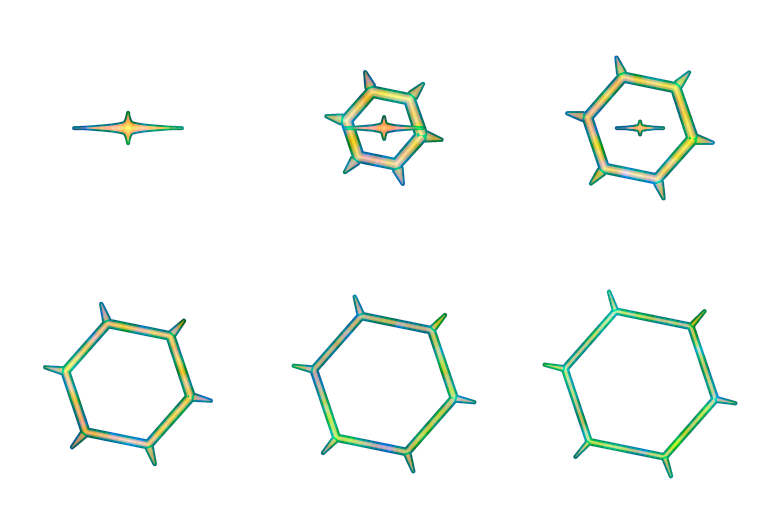
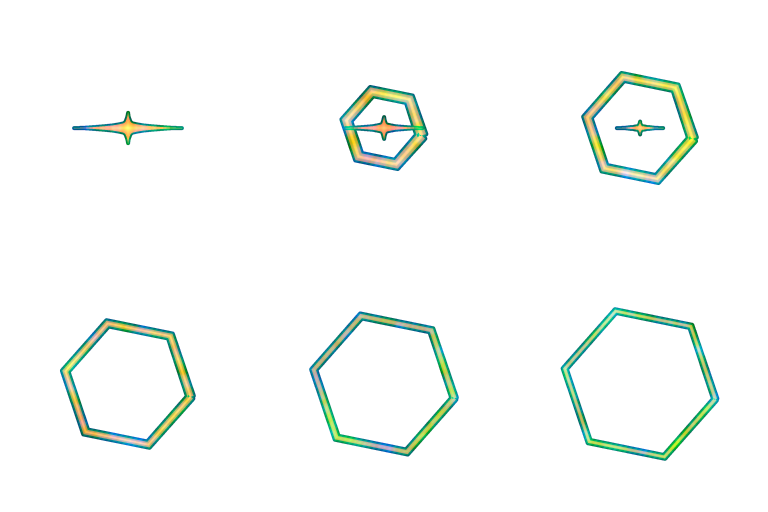
fix(fx): the last ice crystals on film
Dash Stab is a thrust: no weapon ribbon or swing arcs in designed mode
(along the lunge they drew big cyan ice blades). No water impact streaks
on a vertical blow (a latch stood them up as icicles). ice_shatter is a
shard-free ring, glint and cold mist. Harpoon's set leaves a frost mark,
not ice chips. pop_ice loses its corner rays.

diff --git a/tools/vfx_gen/gen_cohesion.py b/tools/vfx_gen/gen_cohesion.py
@@ -340,11 +340,7 @@ def pop_ice(i, n, size):
     turn = 0.2
     ring = [(c + math.cos(turn + math.tau * q / 6) * r, c + math.sin(turn + math.tau * q / 6) * r) for q in range(7)]
     f.poly(stroke(ring, [w] * 7, cap=False), LIGHT, ink=2.4)
-    for q in range(6):
-        a = turn + math.tau * q / 6
-        p0 = (c + math.cos(a) * (r + w * 0.6), c + math.sin(a) * (r + w * 0.6))
-        p1 = (c + math.cos(a) * (r + f.u(0.16)), c + math.sin(a) * (r + f.u(0.16)))
-        f.poly(stroke([p0, p1], [w * 0.9, 1.0], cap=False), LIGHT, ink=2.0)
+    # (fx-ice3: no rays off its corners: the spiked hex read as a snowflake crystal)
     if i <= 3:  # the hot line inside the ring
         f.fill(poly_mask([stroke(ring, [w * 0.35] * 7, cap=False)], f.S), HOT)
     if i <= 2:
